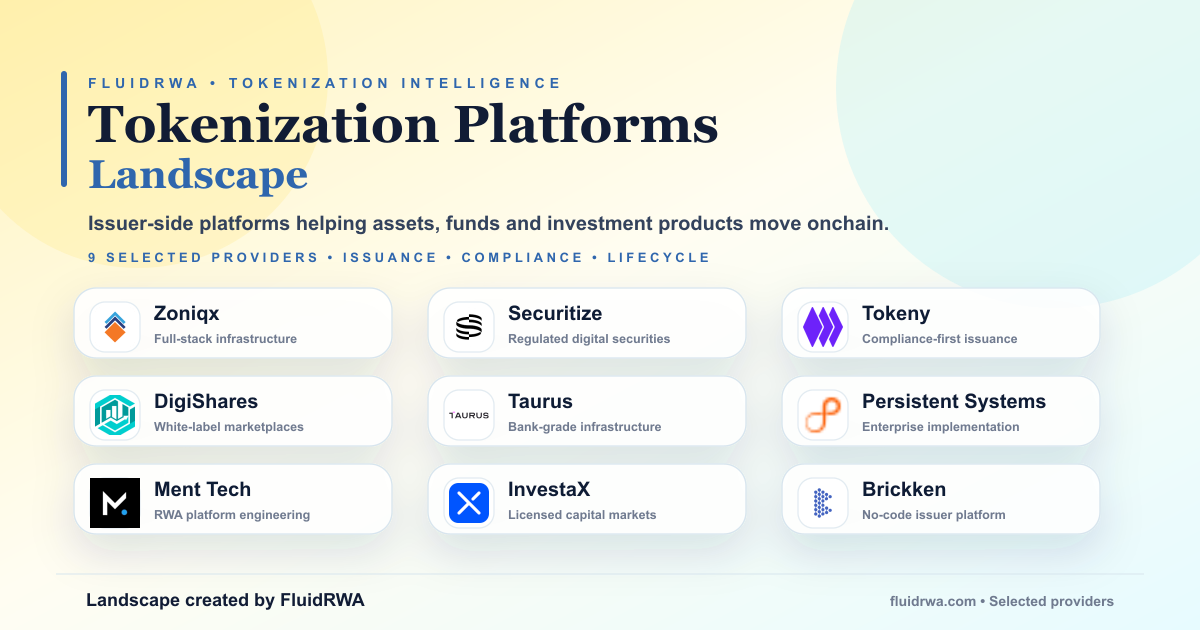
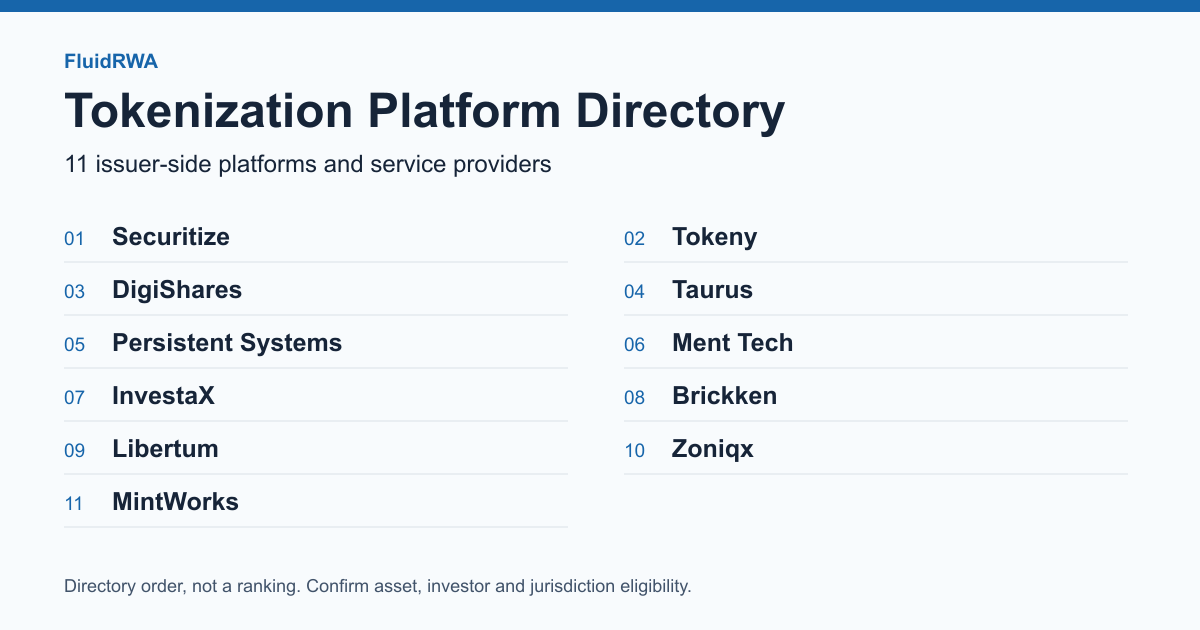
Align directory social preview with all eleven providers

diff --git a/lib/legacy.ts b/lib/legacy.ts
@@ -116,7 +116,8 @@ const seoOverrides: Record<string, SeoOverride> = {
   "vendors/tokenization-platforms/index.html": {
     title: "RWA Tokenization Platform Directory: 11 Providers | FluidRWA",
     description: "Browse 11 issuer-side tokenization platforms and service providers. Filter by project fit, compare asset and jurisdiction requirements, and build a shortlist.",
-    heading: "RWA Tokenization Platform Directory"
+    heading: "RWA Tokenization Platform Directory",
+    socialImageAlt: "FluidRWA tokenization directory: 11 issuer-side platforms and service providers in directory order, not a ranking."
   },
   "vendors/custody-solutions/index.html": {
     title: "28 Institutional Crypto Custody Providers Compared",

diff --git a/vendors/tokenization-platforms/index.html b/vendors/tokenization-platforms/index.html
@@ -14,7 +14,7 @@
   <link rel="preload" as="image" href="../../assets/fluidrwa-small-logo.png" fetchpriority="high">
   <link rel="stylesheet" href="../../assets/styles-yellow-blue.css?v=hero-fix-1">
   <meta name="twitter:image" content="https://www.fluidrwa.com/assets/social/tokenization-platforms.png">
-  <meta property="og:image:alt" content="FluidRWA Tokenization Platforms Landscape">
+  <meta property="og:image:alt" content="FluidRWA tokenization directory: 11 issuer-side platforms and service providers in directory order, not a ranking.">
   <meta property="og:image:height" content="630">
   <meta property="og:image:width" content="1200">
   <meta property="og:type" content="website">

diff --git a/docs/directory-followup-2026-11-08.md b/docs/directory-followup-2026-11-08.md
@@ -35,6 +35,7 @@ The device tab visibly showed desktop 0/12,689/35.8, mobile 0/1,072/49.1 and tab
 
 - Tokenization: category title/H1/description now describe browsing and shortlisting 11 issuer-side software/service providers, rather than another best-companies article. Removed the old source metadata's 30+ vetted assertion. Clarified software versus implementation services, issuer/investor jurisdictions, asset eligibility, HQ versus availability and responsibility boundaries. Replaced the snapshot's blanket full-lifecycle/multi-chain labels with scope-neutral labels. Added links to the strong shortlist, procurement comparison, RFP, service-model explainer, scoped October research and approved contact email. Vendor information submission uses the existing membership route, without acceptance or ranking promises.
 - Securitize, Tokeny and Zoniqx: narrowed three descriptions, discovery tags and long explanations to the reviewed official scope; matching JSON-LD descriptions/tags are generated by the same maintained renderer overrides in `lib/legacy.ts`. Tokeny is explicitly software, not the appointed KYC agent; Zoniqx uses current z360/zConnect names without the old any-asset/any-chain or tokenized-total assertions. Securitize is not described as one universally SEC-approved regulatory umbrella. This is not an exhaustive re-verification of all 11 vendors or a regulator-register audit. Other provider product statements retain their earlier review status.
+- Social image inspection found a nine-provider selection with Zoniqx first and broad regulatory descriptors. Rebuilt the maintained 1200x630 directory preview from all 11 source names using the same tenth-place rule, explicitly directory order rather than a ranking. Both PNG copies and the existing image URL are retained; no new factual vendor-status labels. The directory card/section design is unchanged.
 - All four directories: removed inferred budget options and the keyword-derived licensed/regulated filter from these routes. Reused the existing select/layout for a workflow-mentioned filter, explicitly a text match rather than verified permissions or availability. Filtering hides/shows but no longer sorts these directories by search score. Initial vendor order is preserved; Zoniqx remains tenth in the rendered tokenization cards and schema. Other directory routes are outside this UI change.
 - Custody: retained its title, description, provider order and short answer separating custodian and wallet infrastructure. The shared filter correction is the bounded usability/trust fix; no new qualified-custody claims.
 - Browser testing found custody's existing search field inside a hidden directory heading. The widget discarded its replacement input merely because that hidden field existed. The four scoped directories now move their existing labeled search input into the visible filter panel, restoring usable custody search without duplicating fields or changing the card design.
